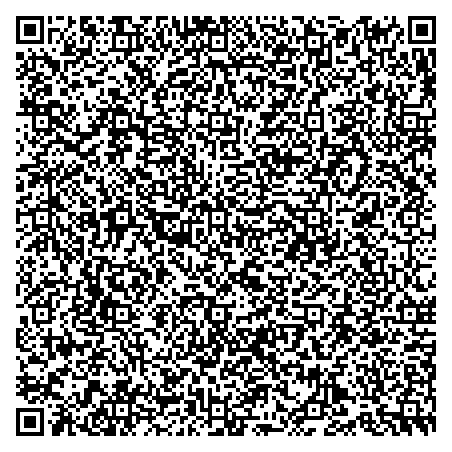
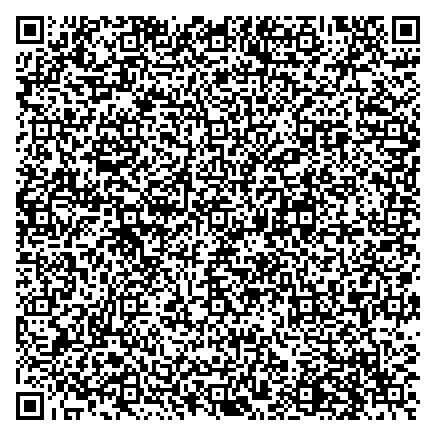
0.0.5

diff --git a/vcard.js b/vcard.js
@@ -1,8 +1,12 @@
 const fs = require('fs');
+const path = require('path');
 const qr = require('qrcode');
 const vCard = require('vcards-js');
 
-const contact = require('./contact.json');
+const args = process.argv.slice(2);  // récupère les arguments de la ligne de commande
+const filePath = args[0];  // le premier argument est le chemin du fichier de contact
+
+const contact = require(filePath);
 
 const card = vCard();
 
@@ -10,13 +14,19 @@ card.firstName = contact.firstName;
 card.lastName = contact.lastName;
 card.organization = contact.organization;
 card.title = contact.title;
-card.email = contact.email;
+card.workEmail = contact.workEmail;
 card.workPhone = contact.workPhone;
-card.workAddress.label = contact.workAddress;
+card.workAddress.street = contact.workAddressStreet
+card.workAddress.postalCode = contact.workAddressPostalCode
+card.workAddress.city = contact.workAddressCity
+card.workAddress.countryRegion = contact.workAddressCountryRegion
 
 const vcardString = card.getFormattedString();
 
-qr.toFile(`${contact.firstName}_${contact.lastName}.png`, vcardString, {
+const fileName = `${contact.firstName}_${contact.lastName}.png`;
+const outputPath = path.join(__dirname, fileName);  // chemin de sortie pour le fichier QR code
+
+qr.toFile(outputPath, vcardString, {
     color: {
         dark: '#000000FF',  // couleur de premier plan : noir opaque
         light: '#00000000'  // couleur d'arrière-plan : transparent
@@ -27,5 +37,5 @@ qr.toFile(`${contact.firstName}_${contact.lastName}.png`, vcardString, {
         console.error(err);
         process.exit(1);
     }
-    console.log('QR code saved successfully');
+    console.log(`QR code saved successfully at ${outputPath}`);
 });

diff --git a/README.md b/README.md
@@ -1,8 +1,8 @@
 # Curious Sheep QR code
 
 ## Url
-node url.js "your url" --> the qr code your_url.png
+node url.js "your url" # the qr code your_url.png
 
 ## Vcard
 modify contact.json then
-node vcard.js --> the qr code for contact person
+node vcard.js "path/to/contact.json" # the qr code for contact person
